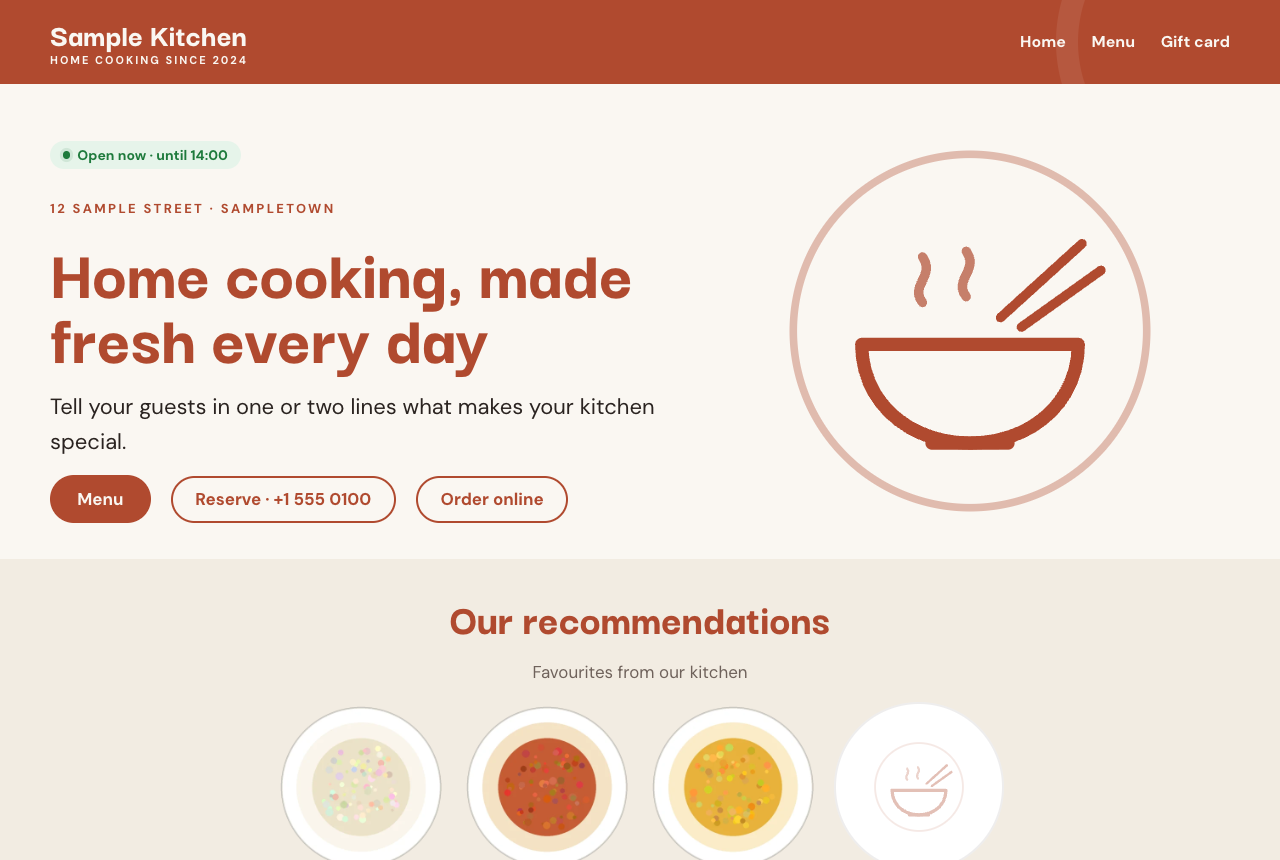
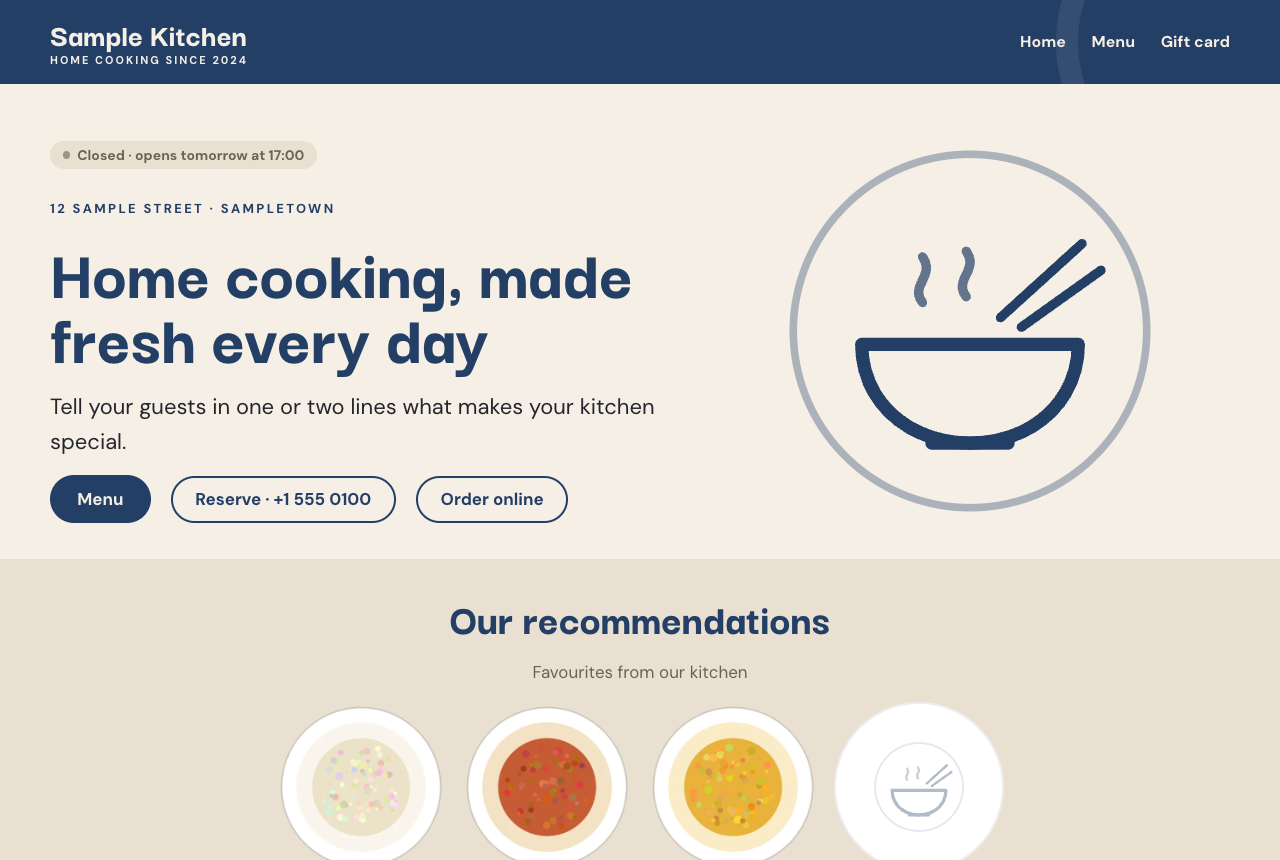
MenuDash Theme 1.2.0: dark blue on beige, MenuDash Contact block
- New default colours: dark blue #243F66 on beige #F5EFE6 (sections
  #EAE0D2); the old terracotta is now the Terracotta colour set.
- Address, contact and getting-here lines use MenuDash's Contact block
  (needs MenuDash 1.10.0); the old theme blocks stay for saved pages.
- Block markup built with serialize_block_attributes().
- New cover picture and README screenshots.

diff --git a/menudash-theme/style.css b/menudash-theme/style.css
@@ -2,7 +2,7 @@
 Theme Name: MenuDash Theme
 Theme URI: https://github.com/yingshiuan/menudash-theme
 Description: A restaurant website theme made for the MenuDash plugin: the menu, today's specials, opening hours, holidays, gift cards and your restaurant's details come from MenuDash, and the theme shows them in a warm, simple design. Home page sections, header and footer are edited in Appearance → Editor; colours and fonts under Styles. English and German included.
-Version: 1.1.0
+Version: 1.2.0
 Requires at least: 6.5
 Tested up to: 6.8
 Requires PHP: 7.4
@@ -137,7 +137,7 @@ header + .mdt-specials { margin-block-start: 0; }
    own styles only for buttons placed directly, so the outline style is repeated here. */
 .wp-block-button.is-style-outline > .wp-block-button__link { background: transparent; border: 2px solid currentColor; }
 /* The theme's MenuDash blocks in the editor: a dashed outline says "comes from MenuDash". */
-.mdt-live-block { outline: 1px dashed rgba(163, 30, 44, .35); outline-offset: 4px; }
+.mdt-live-block { outline: 1px dashed rgba(36, 63, 102, .4); outline-offset: 4px; }
 .mdt-delivery .mdt-delivery-hours { margin: .4rem 0 1.2rem; }
 .mdt-delivery .menudash-open { margin-top: .2rem; }
 

diff --git a/menudash-theme/assets/js/blocks-editor.js b/menudash-theme/assets/js/blocks-editor.js
@@ -13,7 +13,7 @@
       description: data.hint,
       category: "menudash-theme",
       icon: "store",
-      supports: { html: false, inserter: short !== "open" && short !== "buttons" }, // Now MenuDash's Open now block and WordPress buttons.
+      supports: { html: false, inserter: ["open", "buttons", "place", "contact", "directions"].indexOf(short) < 0 }, // Now MenuDash blocks and WordPress buttons.
       edit: function (props) {
         return el("div", blockEditor.useBlockProps({ className: "mdt-live-block" }),
           el(ServerSideRender, { block: name, attributes: props.attributes }));

diff --git a/menudash-theme/inc/blocks.php b/menudash-theme/inc/blocks.php
@@ -6,12 +6,12 @@
  * into it; in the editor they show a live preview (assets/js/blocks-editor.js). Texts
  * around them are normal blocks. Without MenuDash they print nothing.
  *
- *   menudash-theme/place        street · city, the welcome's small line
+ *   menudash-theme/place        only for pages saved with 1.0/1.1: now MenuDash's Contact block
  *   menudash-theme/open         only for pages saved with 1.0: now MenuDash's own "Open now" block
  *   menudash-theme/buttons      only for pages saved with 1.0: the patterns now use WordPress buttons
  *                               with MenuDash links (mdt_bound_button)
- *   menudash-theme/contact      variant="visit": address and phone; variant="footer": address, country, phone, e-mail
- *   menudash-theme/directions   "Getting here", all lines or only the first (first=true)
+ *   menudash-theme/contact      only for pages saved with 1.0/1.1: now MenuDash's Contact block
+ *   menudash-theme/directions   only for pages saved with 1.0/1.1: now MenuDash's Contact block
  *   menudash-theme/social       variant="icons": Facebook and Instagram icons; variant="follow": the Instagram button
  *   menudash-theme/delivery     the whole delivery column; nothing without an order link
  *   menudash-theme/map          the Google Maps map, loaded on request
@@ -111,7 +111,7 @@ function mdt_eyebrow( $text ) {
 
 /** Old pages' menudash-theme/open, drawn by MenuDash's Open now block, which the theme uses now. */
 function mdt_block_open( $atts ) {
-	return do_blocks( '<!-- wp:menudash/open ' . wp_json_encode( array( 'for' => $atts['for'] ) ) . ' /-->' );
+	return do_blocks( '<!-- wp:menudash/open ' . serialize_block_attributes( array( 'for' => 'order' === $atts['for'] ? 'order' : 'open' ) ) . ' /-->' );
 }
 
 function mdt_block_place() {
@@ -146,7 +146,7 @@ function mdt_bound_button( $key, $text, $outline = false, $label = '' ) {
 	} else {
 		$a = '<a class="wp-block-button__link wp-element-button" href="#">';
 	}
-	return '<!-- wp:button ' . wp_json_encode( $attrs, JSON_UNESCAPED_UNICODE | JSON_UNESCAPED_SLASHES ) . ' -->' . "\n"
+	return '<!-- wp:button ' . serialize_block_attributes( $attrs ) . ' -->' . "\n"
 		. '<div class="wp-block-button' . ( $outline ? ' is-style-outline' : '' ) . '">' . $a . esc_html( $text ) . '</a></div>' . "\n<!-- /wp:button -->\n";
 }
 

diff --git a/menudash-theme/patterns/visit.php b/menudash-theme/patterns/visit.php
@@ -18,8 +18,15 @@
 <!-- wp:heading -->
 <h2 class="wp-block-heading"><?php echo esc_html__( 'Visit us', 'menudash-theme' ); ?></h2>
 <!-- /wp:heading -->
-<!-- wp:menudash-theme/contact {"variant":"visit"} /-->
-<!-- wp:menudash-theme/directions {"first":true} /-->
+<!-- wp:menudash/contact {"parts":["address"],"fontSize":"large"} /-->
+<?php
+/* translators: %s: the restaurant's phone number, as a link */
+$by_phone = trim( str_replace( '%s', '', __( 'Reservations by phone: %s', 'menudash-theme' ) ) );
+/* translators: %s: e-mail link */
+$by_mail = trim( str_replace( '%s', '', __( 'E-mail: %s', 'menudash-theme' ) ) );
+echo '<!-- wp:menudash/contact ' . serialize_block_attributes( array( 'parts' => array( 'phone', 'email' ), 'phoneLabel' => $by_phone, 'emailLabel' => $by_mail ) ) . " /-->\n";
+?>
+<!-- wp:menudash/contact {"parts":["directions"],"directions":"first"} /-->
 <!-- wp:buttons -->
 <div class="wp-block-buttons">
 <?php echo mdt_bound_button( 'route', __( 'Get directions', 'menudash-theme' ) ); ?>

diff --git a/menudash-theme/patterns/hero.php b/menudash-theme/patterns/hero.php
@@ -13,7 +13,7 @@
 <!-- wp:column {"verticalAlignment":"center","width":"55%"} -->
 <div class="wp-block-column is-vertically-aligned-center" style="flex-basis:55%">
 <!-- wp:menudash/open /-->
-<!-- wp:menudash-theme/place /-->
+<!-- wp:menudash/contact {"parts":["address"],"oneLine":true,"textColor":"primary","style":{"typography":{"fontSize":"0.8125rem","fontWeight":"700","textTransform":"uppercase","letterSpacing":"0.18em"}},"className":"mdt-place"} /-->
 <!-- wp:heading {"level":1,"style":{"typography":{"lineHeight":"0.9"}}} -->
 <h1 class="wp-block-heading" style="line-height:0.9"><?php echo esc_html__( 'Home cooking, made fresh every day', 'menudash-theme' ); ?></h1>
 <!-- /wp:heading -->

diff --git a/menudash-theme/patterns/footer.php b/menudash-theme/patterns/footer.php
@@ -14,7 +14,7 @@
 <!-- wp:column -->
 <div class="wp-block-column">
 <!-- wp:site-title {"level":0,"style":{"typography":{"fontSize":"1.75rem","fontWeight":"800","lineHeight":"1"}},"fontFamily":"display"} /-->
-<!-- wp:menudash-theme/contact {"variant":"footer"} /-->
+<!-- wp:menudash/contact {"parts":["address","country","phone","email"]} /-->
 <!-- wp:menudash-theme/social {"variant":"icons"} /-->
 </div>
 <!-- /wp:column -->

diff --git a/menudash-theme/patterns/directions.php b/menudash-theme/patterns/directions.php
@@ -9,4 +9,4 @@
 <!-- wp:heading {"level":3} -->
 <h3 class="wp-block-heading"><?php echo esc_html__( 'Getting here', 'menudash-theme' ); ?></h3>
 <!-- /wp:heading -->
-<!-- wp:menudash-theme/directions /-->
+<!-- wp:menudash/contact {"parts":["directions"]} /-->

diff --git a/README.md b/README.md
@@ -22,7 +22,7 @@ On phones a bar at the bottom offers **Call · Directions · Menu**. The menu pa
 
 ## Install
 
-1. Install and activate **MenuDash** 1.9.0 or later first (see its [releases](https://github.com/yingshiuan/menudash/releases)).
+1. Install and activate **MenuDash** 1.10.0 or later first (see its [releases](https://github.com/yingshiuan/menudash/releases)).
 2. Download `menudash-theme.zip` from this repository's [releases](https://github.com/yingshiuan/menudash-theme/releases), then *Appearance → Themes → Add New Theme → Upload Theme*, and activate it.
 3. On activation the theme makes a **Home** page from its sections and sets it as the front page (a site with a front page already keeps it; the sections are then in the block inserter under *Restaurant (MenuDash)*).
 4. Fill in **MenuDash → Restaurant** (address, phone, delivery …) and **MenuDash → Hours & holidays**, and upload your menu.
@@ -32,9 +32,9 @@ Requires WordPress 6.5+ and PHP 7.4+.
 
 ## Editing
 
-It's a block theme: *Appearance → Editor* for the header, footer and templates, *Styles* for colours and fonts (three colour sets included: the default terracotta, *Olive* and *Midnight*), and *Pages → Home* for the home page's texts.
+It's a block theme: *Appearance → Editor* for the header, footer and templates, *Styles* for colours and fonts (dark blue on beige by default, plus three colour sets: *Terracotta*, *Olive* and *Midnight*), and *Pages → Home* for the home page's texts.
 
-Parts with a thin dashed outline in the editor come from MenuDash (address, phone, delivery, map, the footer's contact lines). They are drawn fresh on every page view, so saving a page never freezes old details into it: change them in MenuDash, not in the editor. The theme's own blocks are in the inserter under *MenuDash Theme*; *Open now* and *Opening hours* are MenuDash's blocks, under *MenuDash*.
+Parts with a thin dashed outline in the editor come from MenuDash (address, phone, delivery, map, the footer's contact lines). They are drawn fresh on every page view, so saving a page never freezes old details into it: change them in MenuDash, not in the editor. The theme's own blocks are in the inserter under *MenuDash Theme*; *Open now*, *Opening hours* and *Contact* (address, phone, e-mail, getting here — choose the parts in its sidebar) are MenuDash's blocks, under *MenuDash*. The home page is made of sections: to change the badge, an address line or the buttons inside one, click **Edit pattern** first.
 
 The buttons are WordPress's own: delete, reorder or add one with any link (your booking or order system). *Reserve*, *Order online* and *Get directions* take their links from **MenuDash → Restaurant** and hide when that detail is empty; *Reserve* opens the **Reservation link** if you entered one, otherwise it calls. More such buttons: inside a Buttons block, *Reserve / Order online / Call / Directions (MenuDash)*.
 
@@ -54,7 +54,7 @@ dev/build-zip.sh          # dist/menudash-theme.zip
 
 `serve.sh` downloads MenuDash into `dev/.cache` the first time (or uses `MENUDASH_DIR`). It needs Node.js; WordPress runs in [WordPress Playground](https://wordpress.org/playground/).
 
-The theme's MenuDash blocks are in `menudash-theme/inc/blocks.php` (`menudash-theme/contact`, `delivery`, `map`, `picks`, `giftcard` …; `open` and `buttons` are only kept for pages saved with 1.0). They read MenuDash with `mdash_detail()`, `mdash_hours()` and the menu data, and print nothing without MenuDash.
+The theme's MenuDash blocks are in `menudash-theme/inc/blocks.php` (`menudash-theme/delivery`, `map`, `social`, `picks`, `giftcard` …; `open`, `buttons`, `place`, `contact` and `directions` are only kept for pages saved with earlier versions). They read MenuDash with `mdash_detail()`, `mdash_hours()` and the menu data, and print nothing without MenuDash.
 
 ## Licence
 
